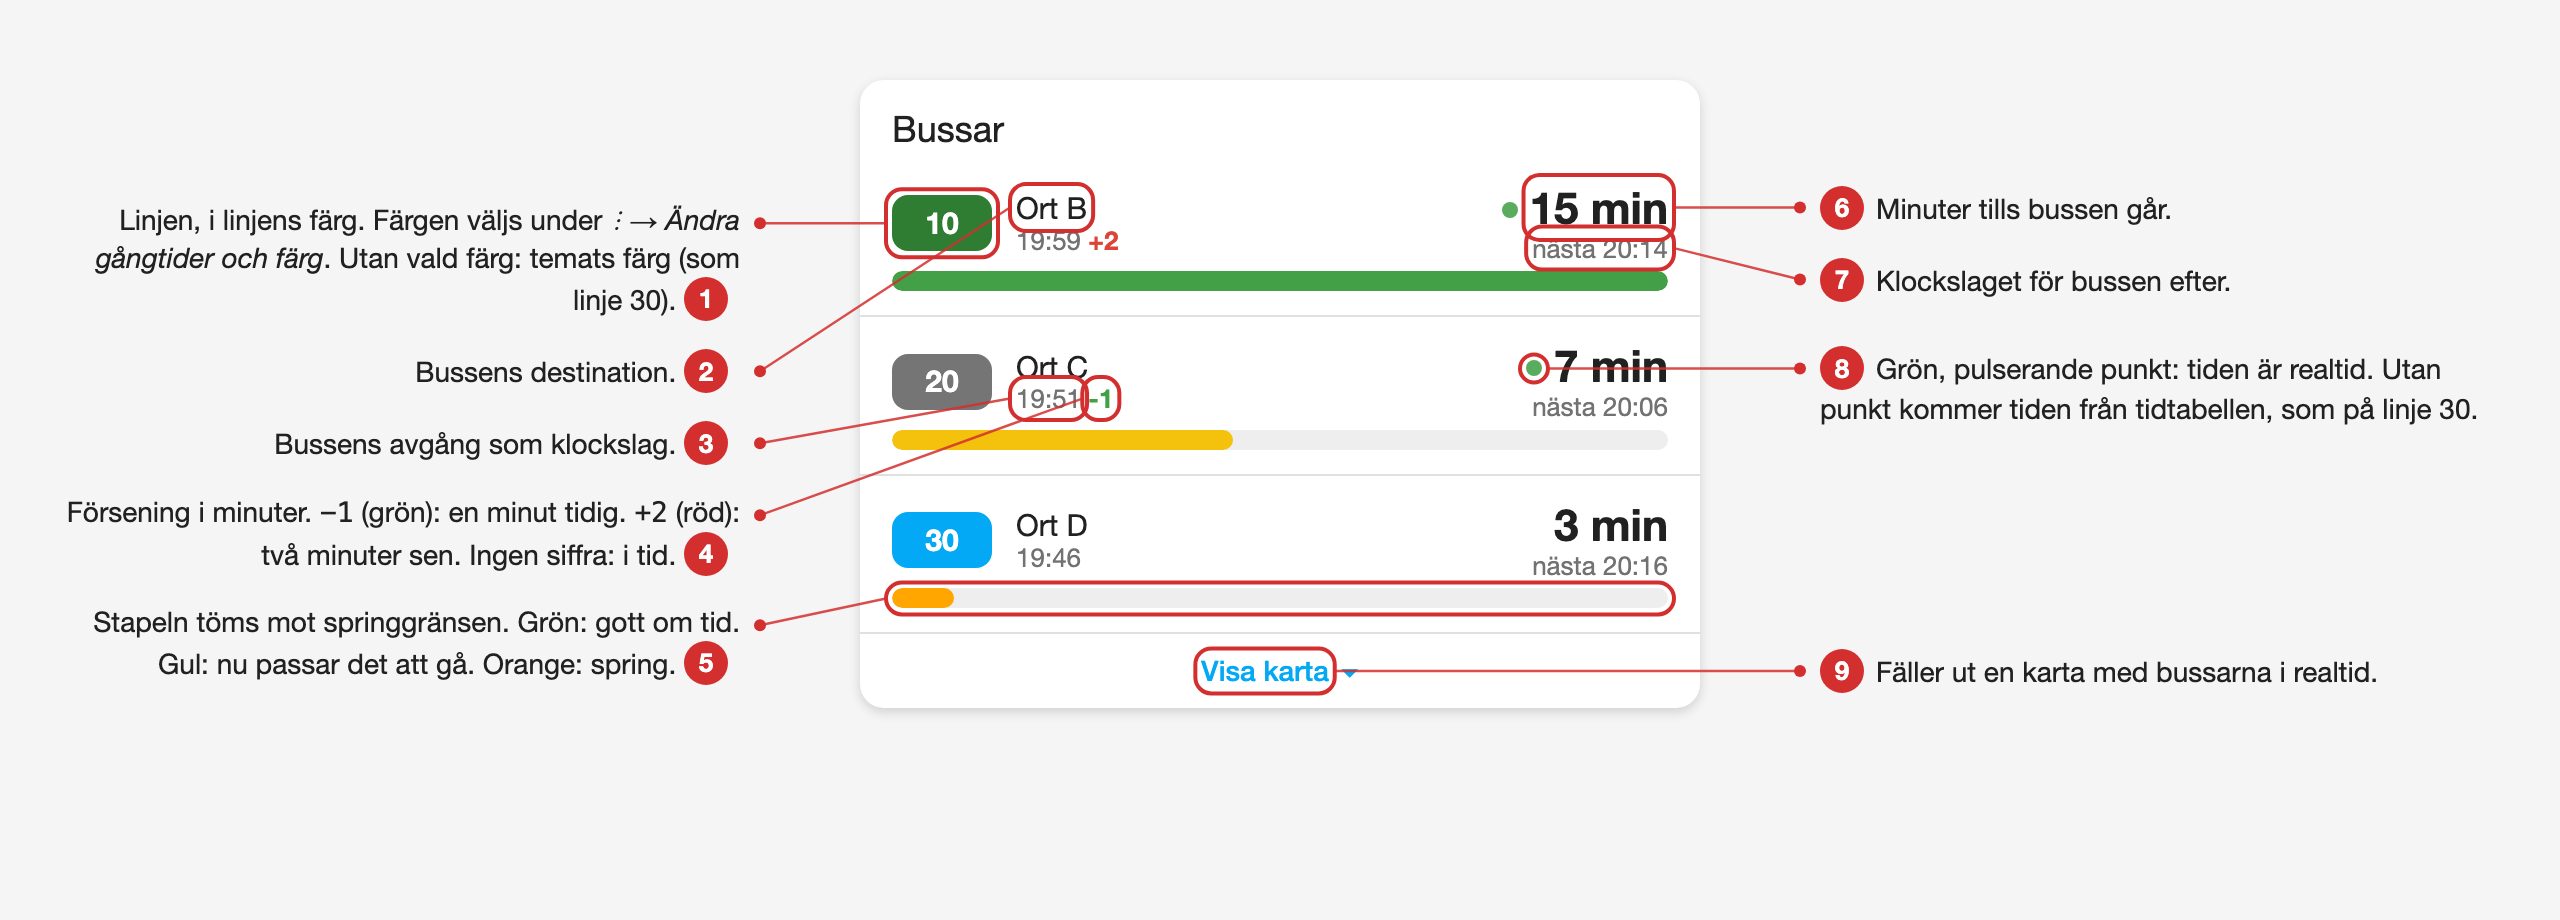
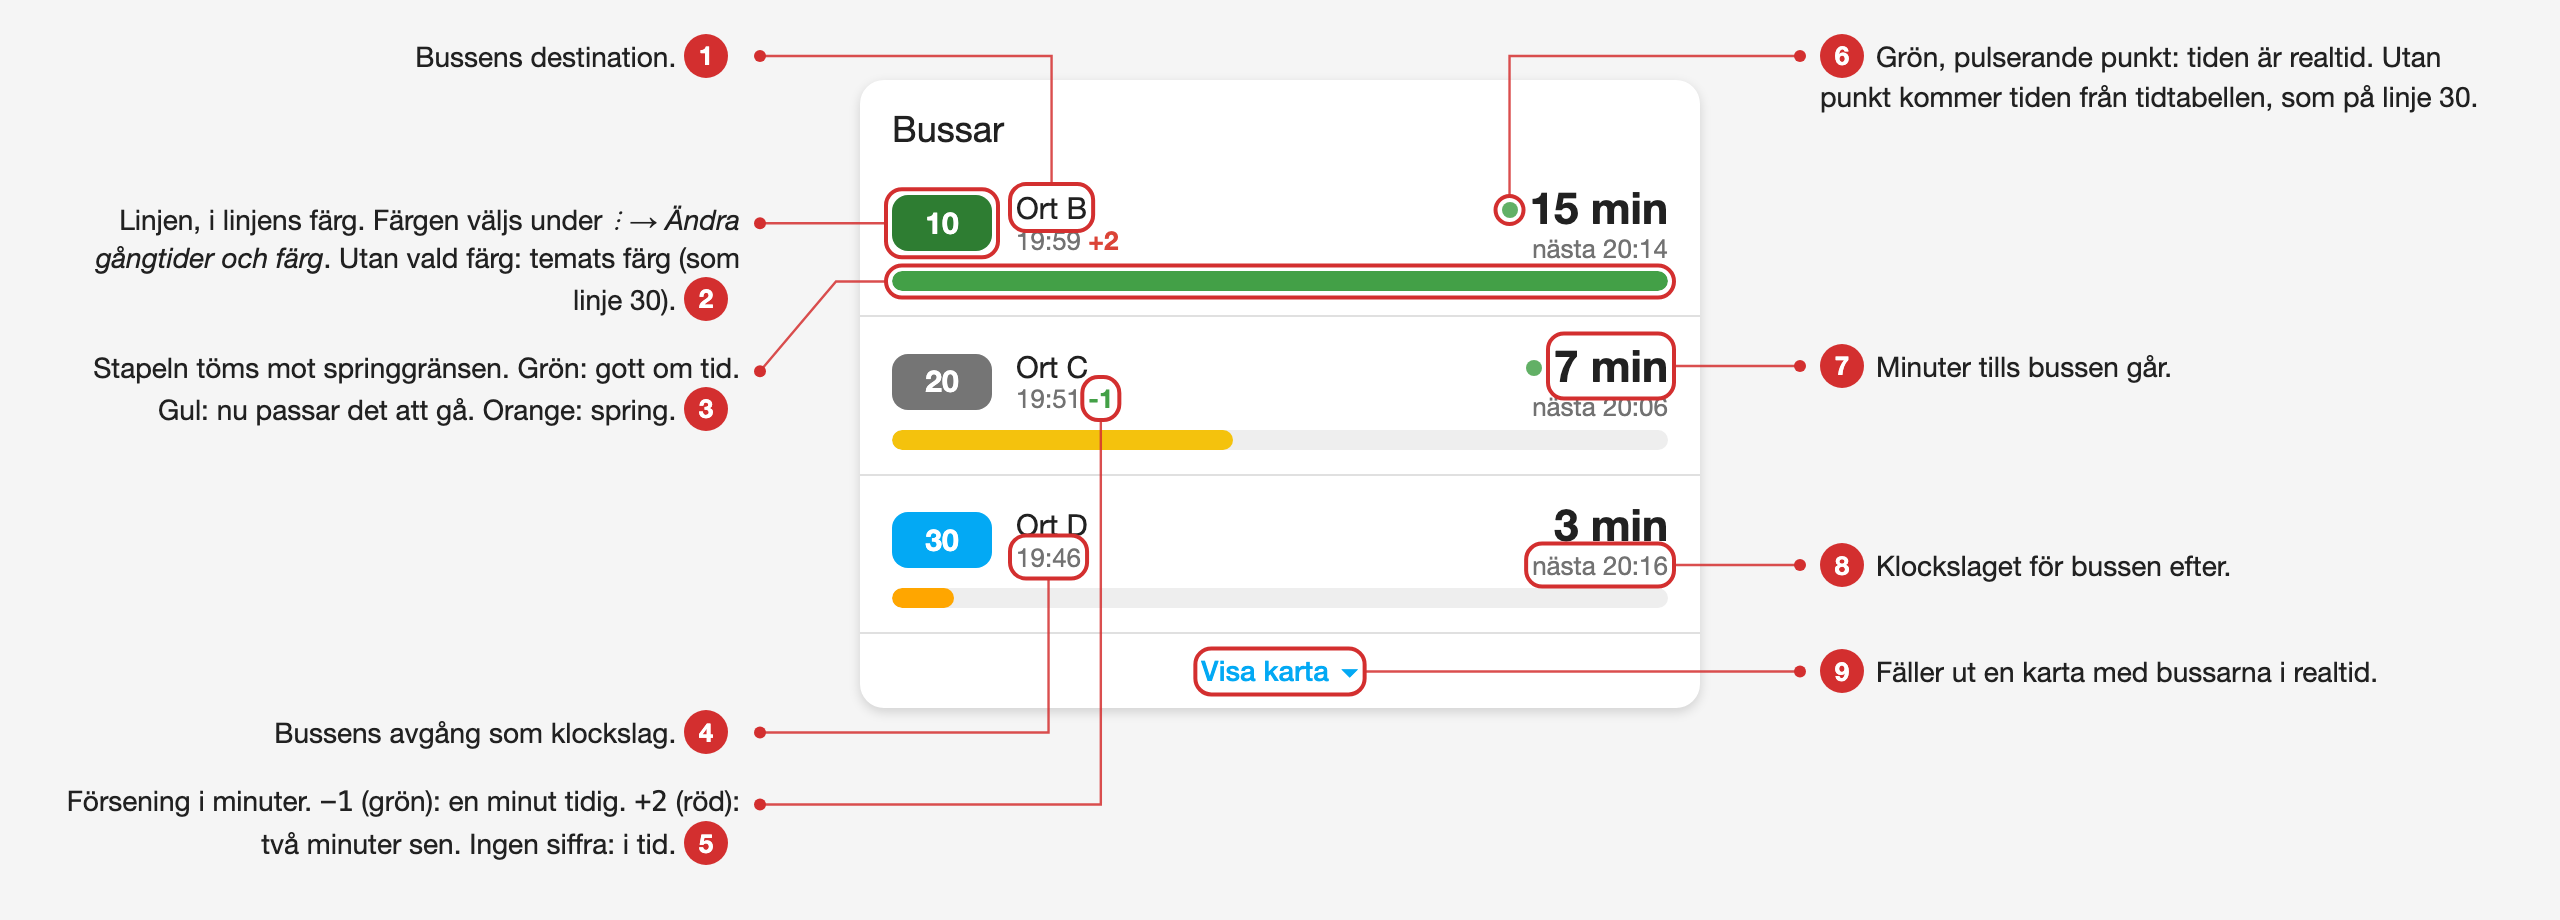
no-mistakes(review): Route manual image leader lines around card content

diff --git a/docs/manual/kort.html b/docs/manual/kort.html
@@ -1,7 +1,7 @@
 <!doctype html>
 <!-- Källan till docs/manual/kort.png, den annoterade bilden i README.
      Sidan laddar det riktiga kortet (custom_components/bussar/www/bussar-card.js) med påhittade
-     sensorer och ritar numrerade röda cirklar runt kortets delar. Uppdatera bilden med
+     sensorer och ritar numrerade röda markeringar runt kortets delar. Uppdatera bilden med
      scripts/manual-image när kortet ändras. Bara anonymiserade exempeldata: Ort A–D, linjerna 10–40. -->
 <html lang="sv">
 <head>
@@ -16,7 +16,6 @@
   body { margin: 0; background: #f5f5f5; font-family: Roboto, "Helvetica Neue", Arial, sans-serif; color: var(--primary-text-color); }
   #stage { position: relative; width: 1280px; height: 460px; }
   bussar-card { position: absolute; left: 430px; top: 40px; display: block; width: 420px; }
-  ha-card { display: block; background: var(--card-background-color); border-radius: 12px; box-shadow: 0 2px 6px rgba(0, 0, 0, .15); overflow: hidden; }
   .note { position: absolute; width: 340px; font-size: 14px; line-height: 1.35; }
   .note.left { left: 30px; text-align: right; }
   .note.right { left: 910px; }
@@ -64,17 +63,19 @@ card.hass = hass;
 // Ingen nedräkning i bilden.
 card.disconnectedCallback();
 
-// [sida, rad, element, förklaring]. Raden räknas från 1; 0 är kortet självt.
+// [sida, rad, element, väg ut, förklaring]. Raden räknas från 1; 0 är kortet självt.
+// Vägen ut ur kortet korsar ingen text: "side" går vågrätt mot förklaringens sida, "up" och "down" lodrätt.
+// Förklaringarna står på varje sida i den ordning strecken lämnar kortet, uppifrån.
 const NOTES = [
-  ["left", 1, ".badge", "Linjen, i linjens färg. Färgen väljs under <i>⋮ → Ändra gångtider och färg</i>. Utan vald färg: temats färg (som linje 30)."],
-  ["left", 1, ".dest", "Bussens destination."],
-  ["left", 2, ".now", "Bussens avgång som klockslag."],
-  ["left", 2, ".early", "Försening i minuter. <code>-1</code> (grön): en minut tidig. <code>+2</code> (röd): två minuter sen. Ingen siffra: i tid."],
-  ["left", 3, ".bar", "Stapeln töms mot springgränsen. Grön: gott om tid. Gul: nu passar det att gå. Orange: spring."],
-  ["right", 1, ".minutes", "Minuter tills bussen går."],
-  ["right", 1, ".next", "Klockslaget för bussen efter."],
-  ["right", 2, ".live", "Grön, pulserande punkt: tiden är realtid. Utan punkt kommer tiden från tidtabellen, som på linje 30."],
-  ["right", 0, ".toggle .label", "Fäller ut en karta med bussarna i realtid."],
+  ["left", 1, ".dest", "up", "Bussens destination."],
+  ["left", 1, ".badge", "side", "Linjen, i linjens färg. Färgen väljs under <i>⋮ → Ändra gångtider och färg</i>. Utan vald färg: temats färg (som linje 30)."],
+  ["left", 1, ".bar", "side", "Stapeln töms mot springgränsen. Grön: gott om tid. Gul: nu passar det att gå. Orange: spring."],
+  ["left", 3, ".now", "down", "Bussens avgång som klockslag."],
+  ["left", 2, ".early", "down", "Försening i minuter. <code>-1</code> (grön): en minut tidig. <code>+2</code> (röd): två minuter sen. Ingen siffra: i tid."],
+  ["right", 1, ".live", "up", "Grön, pulserande punkt: tiden är realtid. Utan punkt kommer tiden från tidtabellen, som på linje 30."],
+  ["right", 2, ".minutes", "side", "Minuter tills bussen går."],
+  ["right", 3, ".next", "side", "Klockslaget för bussen efter."],
+  ["right", 0, ".toggle", "side", "Fäller ut en karta med bussarna i realtid."],
 ];
 
 const root = card.shadowRoot;
@@ -106,15 +107,20 @@ const add = (tag, attrs) => {
 const RED = "#d32f2f";
 const PAD = 3;
 const GAP = 14;
-// Där strecken möter förklaringarna.
+// Där strecken möter förklaringarna, och hur långt utanför kortet de viker av.
 const ANCHOR = { left: 380, right: 900 };
+const OUT = 12;
+const c = root.querySelector("ha-card").getBoundingClientRect();
+const cardRect = { left: c.left - stage.left, right: c.right - stage.left, top: c.top - stage.top, bottom: c.bottom - stage.top };
 
-const marks = NOTES.map(([side, row, sel, text], i) => {
+const marks = NOTES.map(([side, row, sel, exit, text], i) => {
   const r = box(find(row, sel));
-  return { side, text, n: i + 1, x: r.left - stage.left - PAD, top: r.top - stage.top - PAD, w: r.width + 2 * PAD, h: r.height + 2 * PAD };
+  const m = { side, exit, text, n: i + 1, x: r.left - stage.left - PAD, top: r.top - stage.top - PAD, w: r.width + 2 * PAD, h: r.height + 2 * PAD };
+  m.y = { side: m.top + m.h / 2, up: cardRect.top - OUT, down: cardRect.bottom + OUT }[exit];
+  return m;
 });
 
-// Förklaringarna på varje sida i elementens ordning uppifrån, utan att överlappa varandra.
+// Förklaringarna på varje sida i NOTES ordning, så nära sitt streck som möjligt utan att överlappa varandra.
 for (const side of ["left", "right"]) {
   let next = 0;
   for (const m of marks.filter((m) => m.side === side)) {
@@ -122,7 +128,7 @@ for (const side of ["left", "right"]) {
     note.className = `note ${side}`;
     note.innerHTML = side === "left" ? `${m.text} <b>${m.n}</b>` : `<b>${m.n}</b>${m.text}`;
     stageEl.append(note);
-    const top = Math.max(next, m.top + m.h / 2 - 11);
+    const top = Math.max(next, m.y - 11);
     note.style.top = `${top}px`;
     m.ny = top + 11;
     next = top + note.offsetHeight + GAP;
@@ -130,12 +136,21 @@ for (const side of ["left", "right"]) {
 }
 
 for (const m of marks) {
-  const fromX = m.side === "left" ? m.x : m.x + m.w;
-  add("line", { x1: fromX, y1: m.top + m.h / 2, x2: ANCHOR[m.side], y2: m.ny, stroke: RED, "stroke-width": 1.2, opacity: 0.85 });
-  add("circle", { cx: ANCHOR[m.side], cy: m.ny, r: 3, fill: RED });
+  const anchor = ANCHOR[m.side];
+  let points;
+  if (m.exit === "side") {
+    const fromX = m.side === "left" ? m.x : m.x + m.w;
+    const outX = m.side === "left" ? cardRect.left - OUT : cardRect.right + OUT;
+    points = [[fromX, m.y], [outX, m.y], [anchor, m.ny]];
+  } else {
+    const cx = m.x + m.w / 2;
+    const fromY = m.exit === "up" ? m.top : m.top + m.h;
+    points = [[cx, fromY], [cx, m.ny], [anchor, m.ny]];
+  }
+  add("polyline", { points: points.join(" "), fill: "none", stroke: RED, "stroke-width": 1.2, opacity: 0.85 });
+  add("circle", { cx: anchor, cy: m.ny, r: 3, fill: RED });
   add("rect", { x: m.x, y: m.top, width: m.w, height: m.h, rx: Math.min(8, m.h / 2), fill: "none", stroke: RED, "stroke-width": 2 });
 }
-document.body.dataset.ready = "1";
 </script>
 </body>
 </html>
